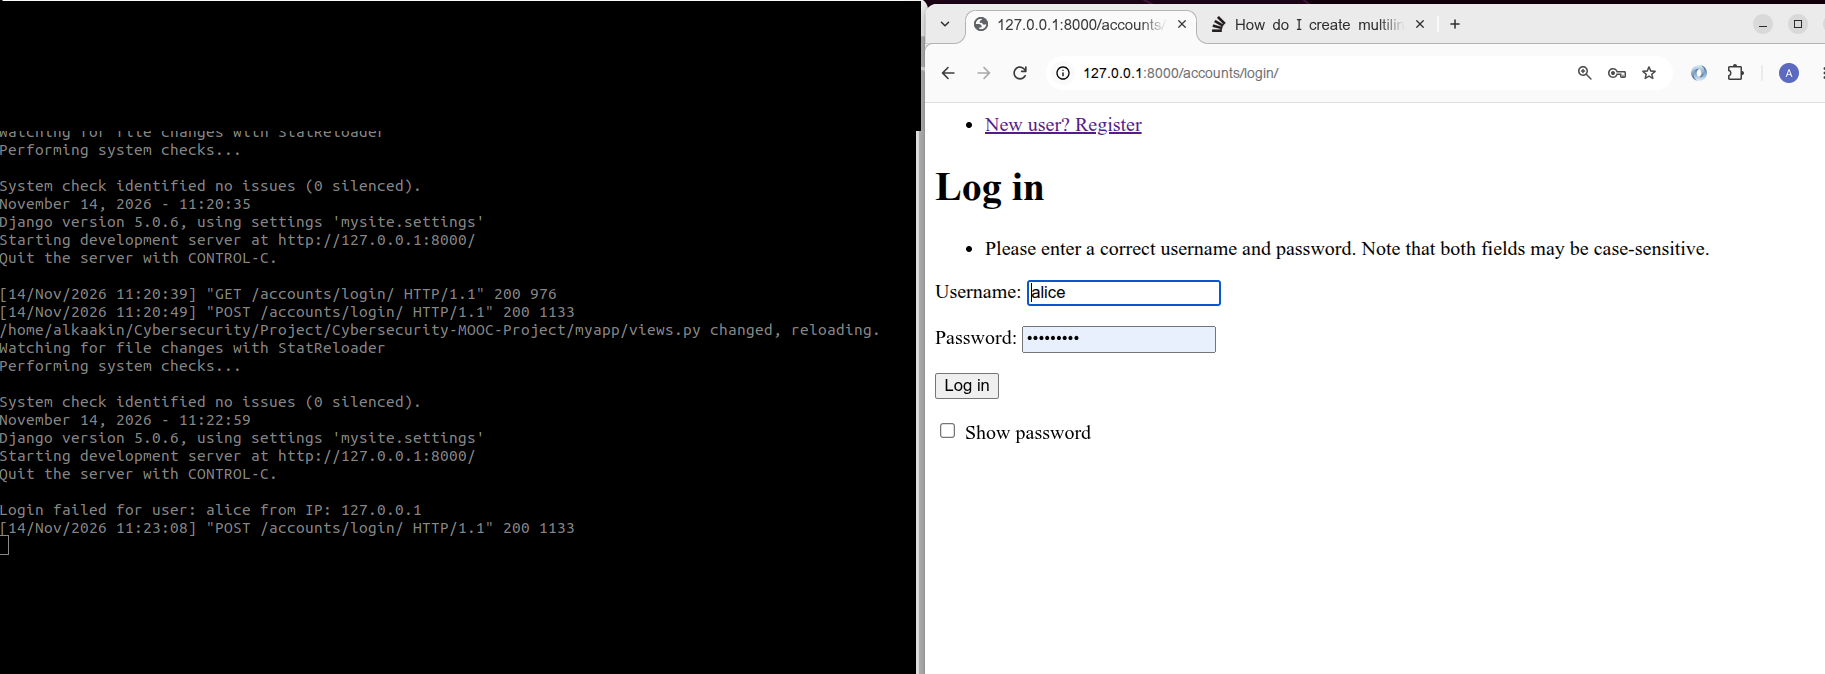
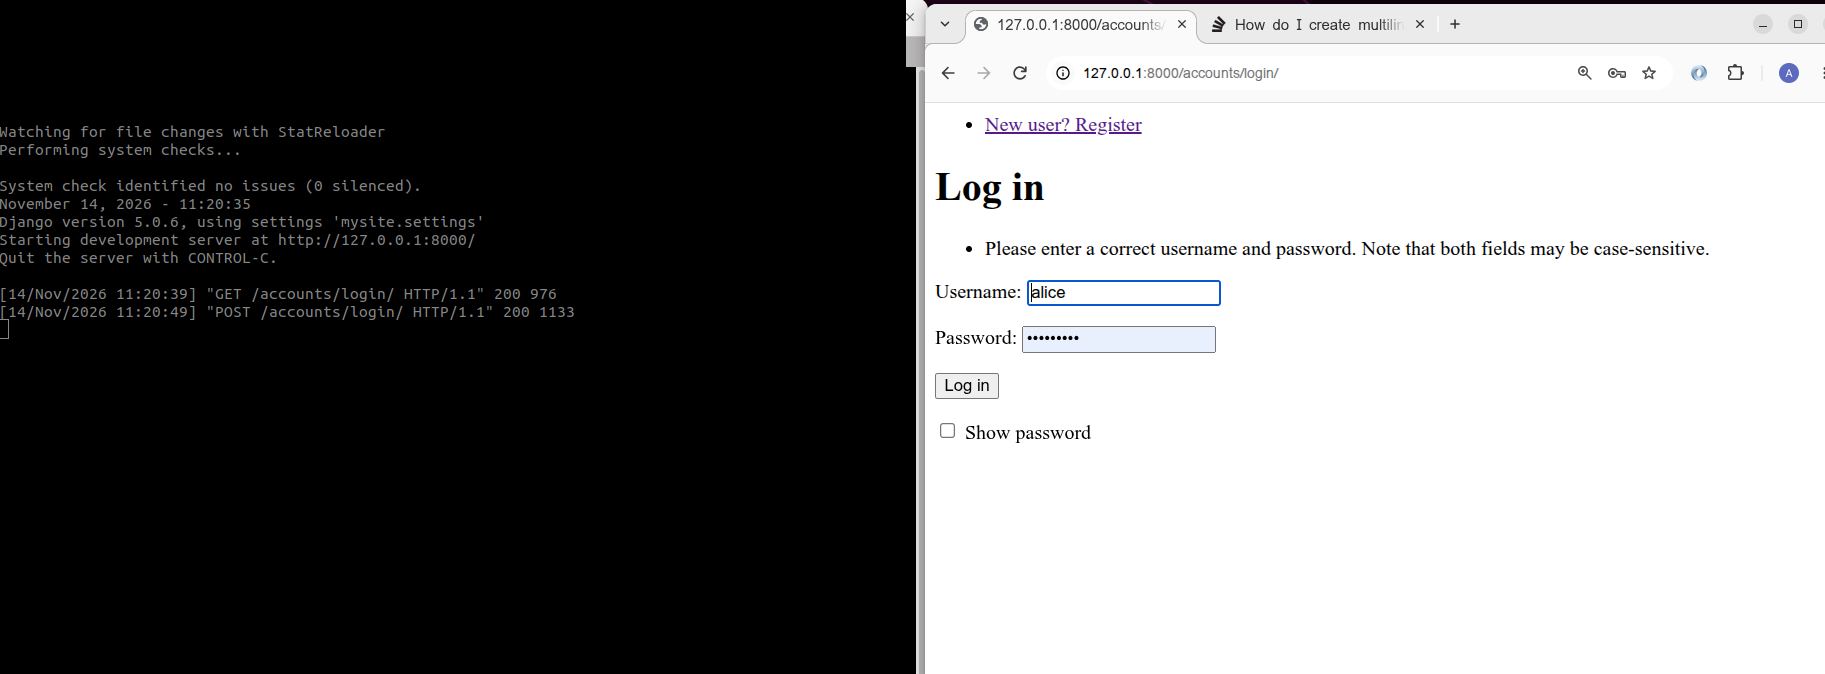
Add minor fixes.

diff --git a/myapp/views.py b/myapp/views.py
@@ -4,8 +4,8 @@ from django.contrib.auth.forms import UserCreationForm
 from django.http import Http404
 from django.shortcuts import redirect, render
 from django.contrib.auth.models import User
-# from django.contrib.auth.signals import user_login_failed
-# from django.dispatch import receiver
+from django.contrib.auth.signals import user_login_failed
+from django.dispatch import receiver
 import logging
 
 
@@ -19,10 +19,14 @@ logger = logging.getLogger(__name__)
 
 # @receiver(user_login_failed)
 # def log_login_failed(sender, credentials, request, **kwargs):
+    # if request:
+        # ip = request.META.get('REMOTE_ADDR', 'unknown IP address')
+    # else:
+        # ip = 'unknown IP address'
     # logger.warning(
         # "Login failed for user: %s from IP: %s",
         # credentials.get('username') or 'unknown user',
-        # request.META.get('REMOTE_ADDR', 'unknown IP address'),
+        # ip,
     # )
 
 @login_required
@@ -85,11 +89,11 @@ def register(request):
         return redirect('login') 
 
         #FIX: Ensure that the form is valid before saving the user, replace everything from the FLAW 4 comment down to return redirect('login') with the following:
-        if form.is_valid():
-            form.save()
-            username = form.cleaned_data.get('username')
-            messages.success(request, f'Account created for {username}!')
-            return redirect('login')
+        #if form.is_valid():
+            #form.save()
+            #username = form.cleaned_data.get('username')
+            #messages.success(request, f'Account created for {username}!')
+            #return redirect('login')
     else:
         form = UserCreationForm()  
     return render(request, 'registration/register.html', {'form': form})
